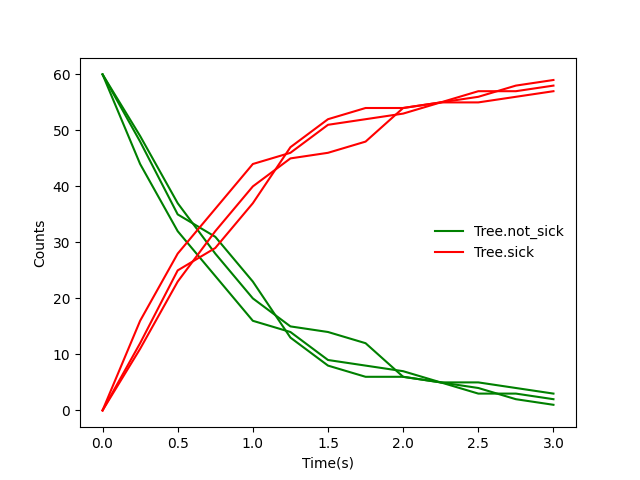
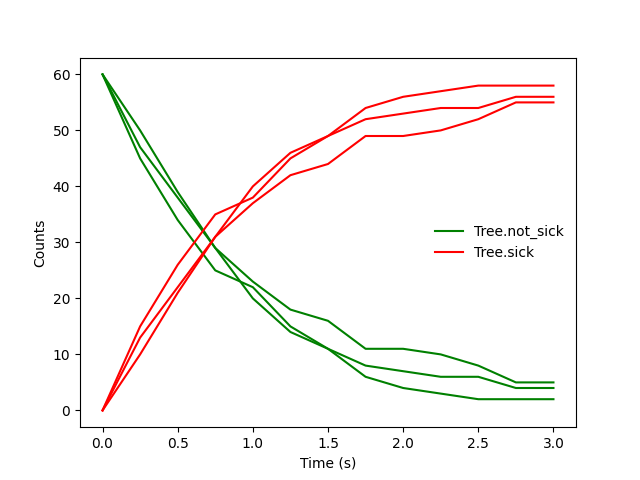
Added space after unit in plot

Changed region(s): [[0.1562, 0.1562, 0.875, 0.8438], [0.4688, 0.9375, 0.5625, 1.0]]

diff --git a/mobspy/plot_scripts/default_plots.py b/mobspy/plot_scripts/default_plots.py
@@ -32,9 +32,9 @@ def set_plot_units(new_plot_params):
     """
     new_plot_params['xlabel'] = 'Time'
     if new_plot_params['unit_x'] is not None:
-        new_plot_params['xlabel'] += f'({new_plot_params["unit_x"]})'
+        new_plot_params['xlabel'] += f' ({new_plot_params["unit_x"]})'
     else:
-        new_plot_params['xlabel'] += '(s)'
+        new_plot_params['xlabel'] += ' (s)'
 
     if new_plot_params['output_concentration']:
         new_plot_params['ylabel'] = 'Conc.'
@@ -42,10 +42,10 @@ def set_plot_units(new_plot_params):
         new_plot_params['ylabel'] = 'Counts'
 
     if new_plot_params['unit_y'] is not None:
-        new_plot_params['ylabel'] += f'({new_plot_params["unit_y"]})'
+        new_plot_params['ylabel'] += f' ({new_plot_params["unit_y"]})'
     else:
         if new_plot_params['output_concentration']:
-            new_plot_params['ylabel'] += '(mol/L)'
+            new_plot_params['ylabel'] += ' (mol/L)'
 
 
 def stochastic_plot(species, data, plot_params):

diff --git a/mobspy/modules/meta_class_utils.py b/mobspy/modules/meta_class_utils.py
@@ -110,8 +110,8 @@ def create_orthogonal_vector_structure(species):
                 else:
                     simlog.error(f'The same characteristic can only be shared through inheritance. ' +
                                  f'There are two characteristics directly added to two meta-species \n'
-                                f'Repetition in: {spe}, {ref_characteristics_to_object[cha] } \n'
-                                f'Characteristics: {spe.get_characteristics()}, '
+                                 f'Repetition in: {spe}, {ref_characteristics_to_object[cha]} \n'
+                                 f'Characteristics: {spe.get_characteristics()}, '
                                  f'{ref_characteristics_to_object[cha].get_characteristics()} \n')
 
     return ref_characteristics_to_object

diff --git a/mobspy/simulation.py b/mobspy/simulation.py
@@ -227,8 +227,7 @@ class Simulation:
                              species_counts=self._species_counts,
                              orthogonal_vector_structure=self.orthogonal_vector_structure,
                              volume=self.parameters['volume'],
-                             type_of_model=self.parameters[
-                                 "simulation_method"],
+                             type_of_model=self.parameters["simulation_method"],
                              verbose=verbose,
                              event_dictionary=self.total_packed_events,
                              continuous_sim=self.parameters['_continuous_simulation'],

diff --git a/for_local_use.py b/for_local_use.py
@@ -4,21 +4,10 @@ from mobspy import *
 import numpy as np
 
 if __name__ == '__main__':
+    # Bourbaki
 
-    A, B = BaseSpecies()
-    A + B >> Zero [1]
+    pass
 
-    A(200), B(200)
-    Sim = Simulation(A | B)
-    Sim.level = -1
-    descr = Sim.compile()
-    Sim.plot_data = False
-    Sim.duration = 30 * u.hour
-    Sim.volume = 1*u.m**3
-    Sim.run()
-
-    assert Sim._parameters_for_sbml['volume'][0] > 100
-    assert Sim.fres['Time'][-1] > 100
 
 
 

diff --git a/mobspy/modules/meta_class.py b/mobspy/modules/meta_class.py
@@ -19,9 +19,6 @@ from mobspy.modules.mobspy_expressions import *
 import re
 
 
-
-
-
 # Easter Egg: I finished the first version on a sunday at the BnF in Paris
 # If anyone is reading this, I highly recommend you study there, it is quite a nice place
 class Compiler:
